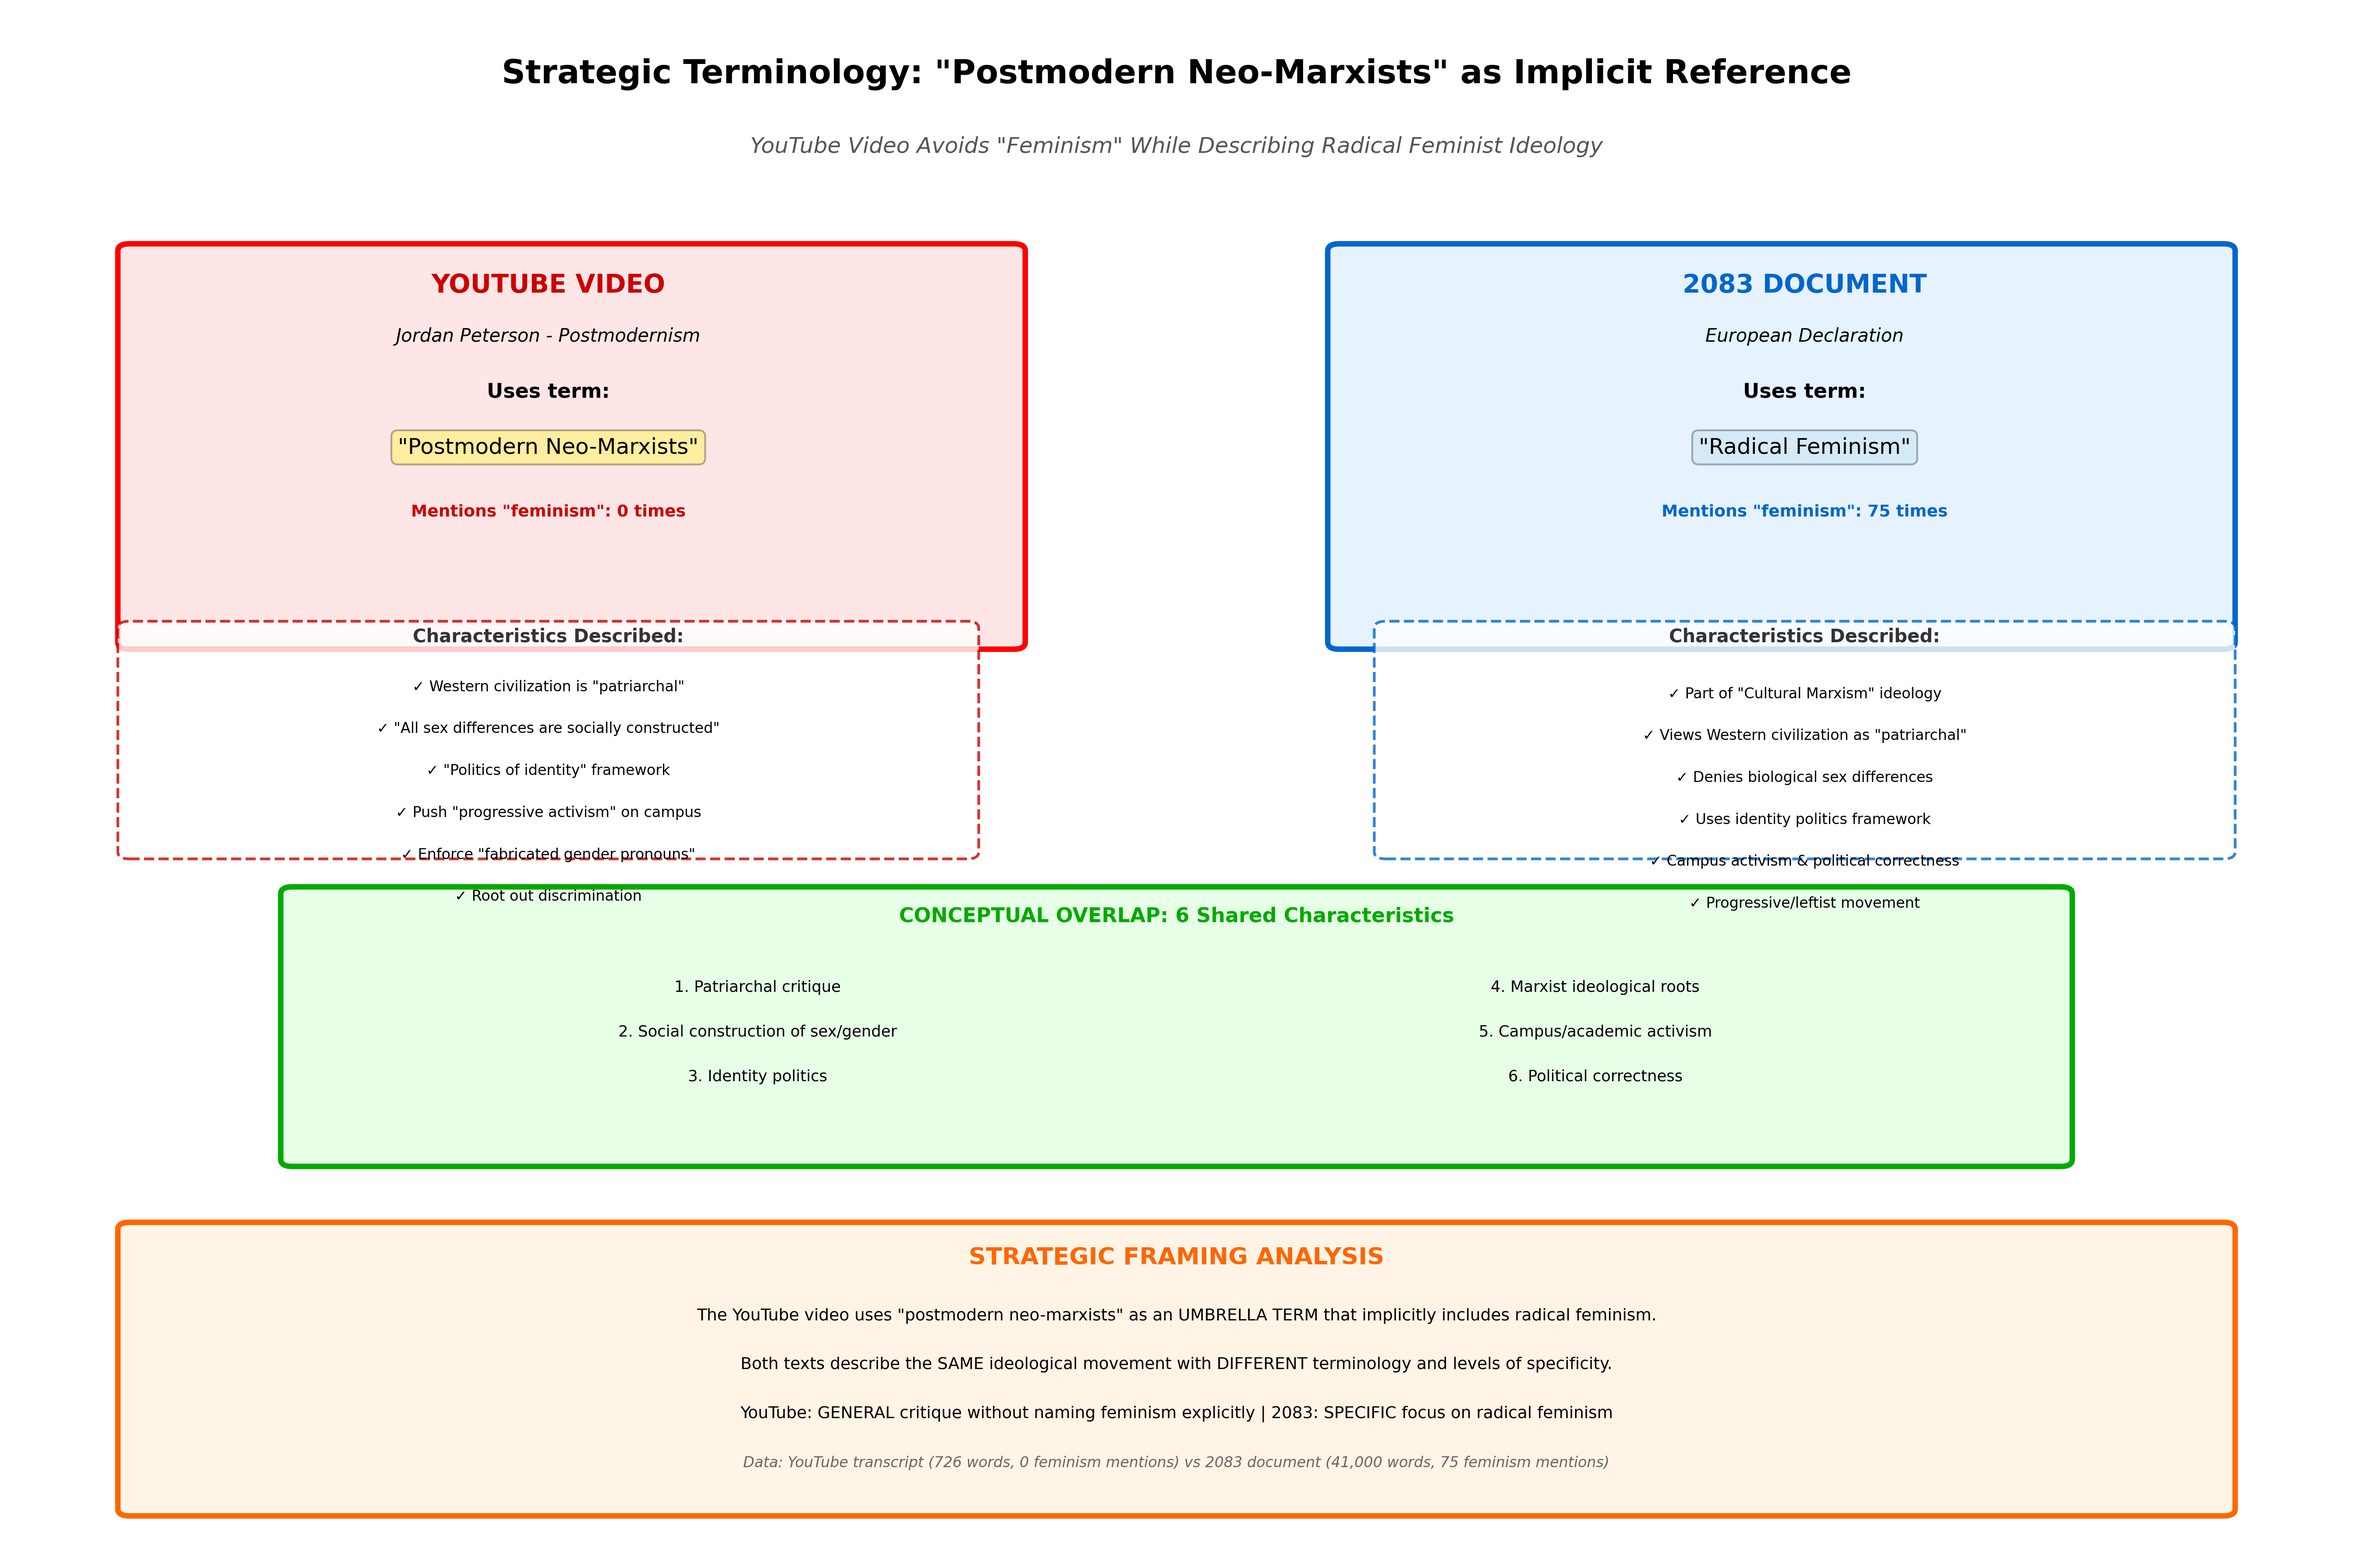
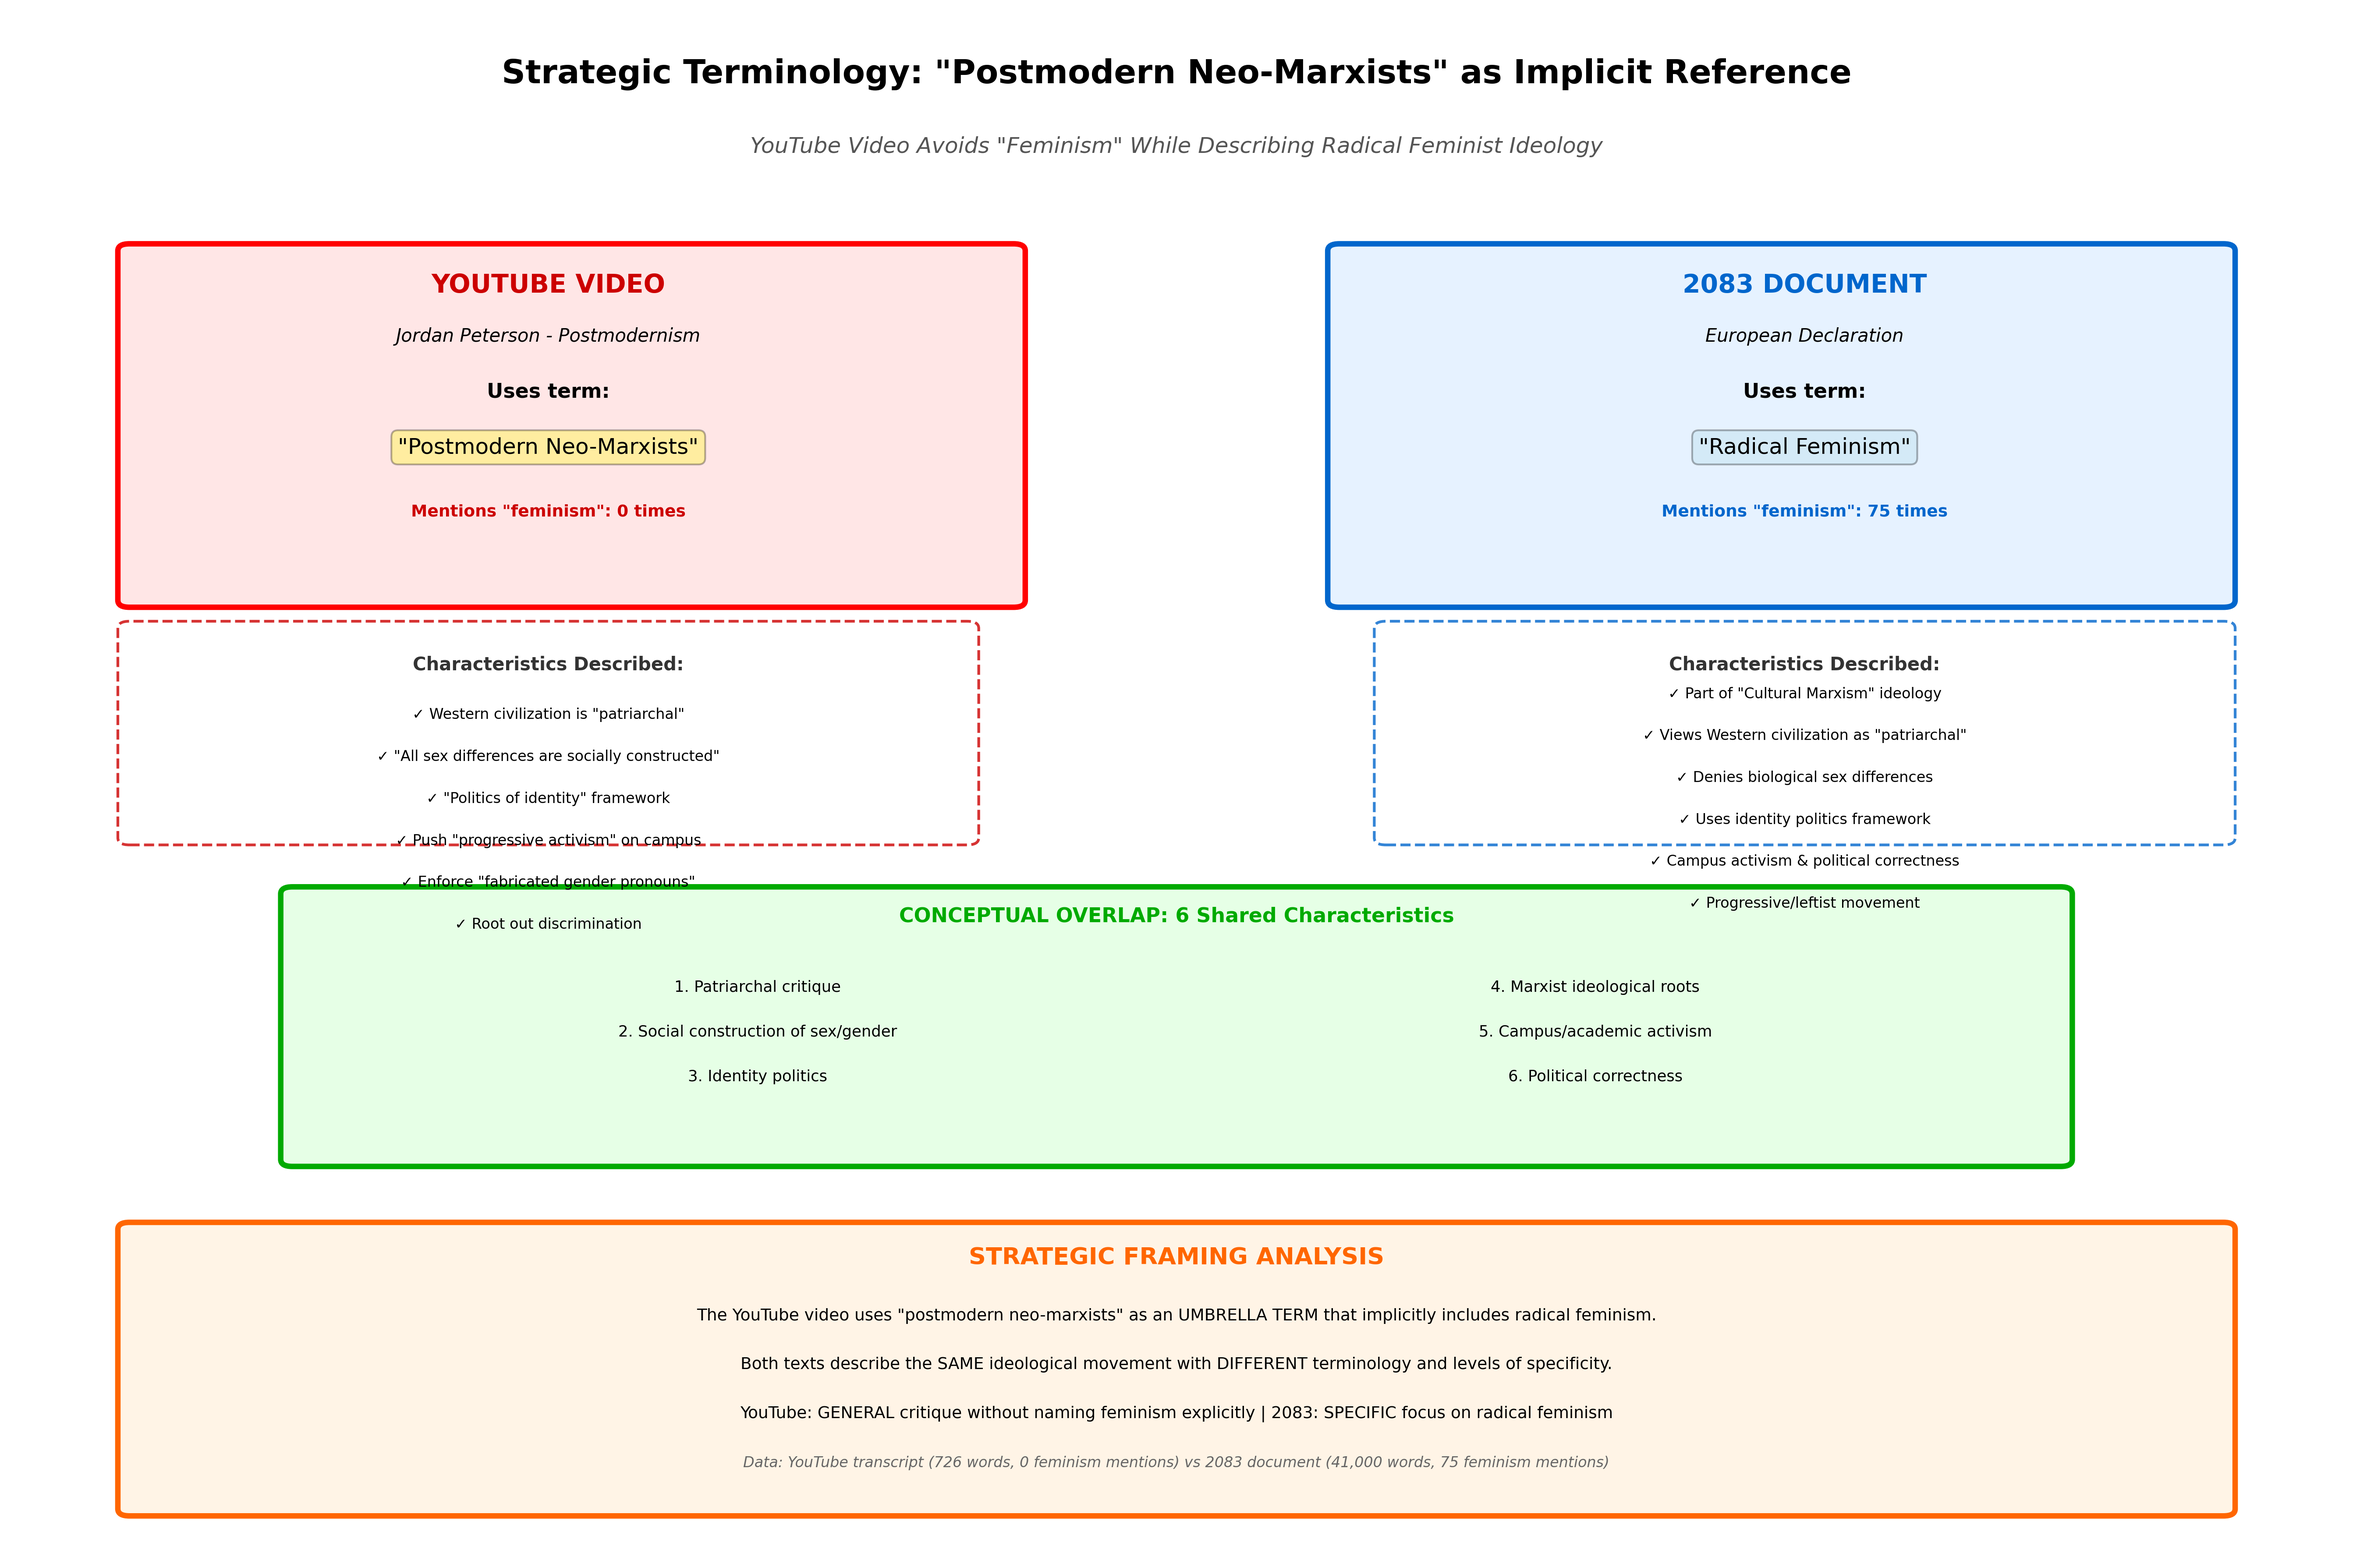
Move dashed characteristic boxes down for better alignment

Changed region(s): [[0.0311, 0.3731, 0.4354, 0.5908], [0.5598, 0.3731, 0.9641, 0.4353]]

diff --git a/visualize_implicit_feminism.py b/visualize_implicit_feminism.py
@@ -24,7 +24,7 @@ ax.text(5, 10.0, 'YouTube Video Avoids "Feminism" While Describing Radical Femin
 
 # LEFT SIDE: YouTube Video
 # Box for YouTube
-youtube_box = FancyBboxPatch((0.5, 6.5), 3.8, 2.8, 
+youtube_box = FancyBboxPatch((0.5, 6.8), 3.8, 2.5, 
                              boxstyle="round,pad=0.05", 
                              edgecolor='#FF0000', facecolor='#FFE6E6', 
                              linewidth=3)
@@ -40,13 +40,13 @@ ax.text(2.3, 7.4, 'Mentions "feminism": 0 times', ha='center', fontsize=9,
 
 # Characteristics of "postmodern neo-marxists" in YouTube
 # Add inner box for characteristics
-char_box_yt = FancyBboxPatch((0.5, 5.0), 3.6, 1.6,
+char_box_yt = FancyBboxPatch((0.5, 5.1), 3.6, 1.5,
                              boxstyle="round,pad=0.05",
                              edgecolor='#CC0000', facecolor='white',
                              linewidth=1.5, linestyle='--', alpha=0.8)
 ax.add_patch(char_box_yt)
 
-char_y = 6.5
+char_y = 6.3
 ax.text(2.3, char_y, 'Characteristics Described:', ha='center', fontsize=10, 
         fontweight='bold', color='#333')
 characteristics_yt = [
@@ -65,7 +65,7 @@ for char in characteristics_yt:
 
 # RIGHT SIDE: 2083 Document
 # Box for 2083
-doc_box = FancyBboxPatch((5.7, 6.5), 3.8, 2.8, 
+doc_box = FancyBboxPatch((5.7, 6.8), 3.8, 2.5, 
                          boxstyle="round,pad=0.05", 
                          edgecolor='#0066CC', facecolor='#E6F2FF', 
                          linewidth=3)
@@ -80,13 +80,13 @@ ax.text(7.7, 7.4, 'Mentions "feminism": 75 times', ha='center', fontsize=9,
         color='#0066CC', fontweight='bold')
 # Characteristics of "radical feminism" in 2083
 # Add inner box for characteristics
-char_box_doc = FancyBboxPatch((5.9, 5.0), 3.6, 1.6,
+char_box_doc = FancyBboxPatch((5.9, 5.1), 3.6, 1.5,
                               boxstyle="round,pad=0.05",
                               edgecolor='#0066CC', facecolor='white',
                               linewidth=1.5, linestyle='--', alpha=0.8)
 ax.add_patch(char_box_doc)
 
-ax.text(7.7, 6.5, 'Characteristics Described:', ha='center', fontsize=10, 
+ax.text(7.7, 6.3, 'Characteristics Described:', ha='center', fontsize=10,
         fontweight='bold', color='#333')
 characteristics_doc = [
     '✓ Part of "Cultural Marxism" ideology',
